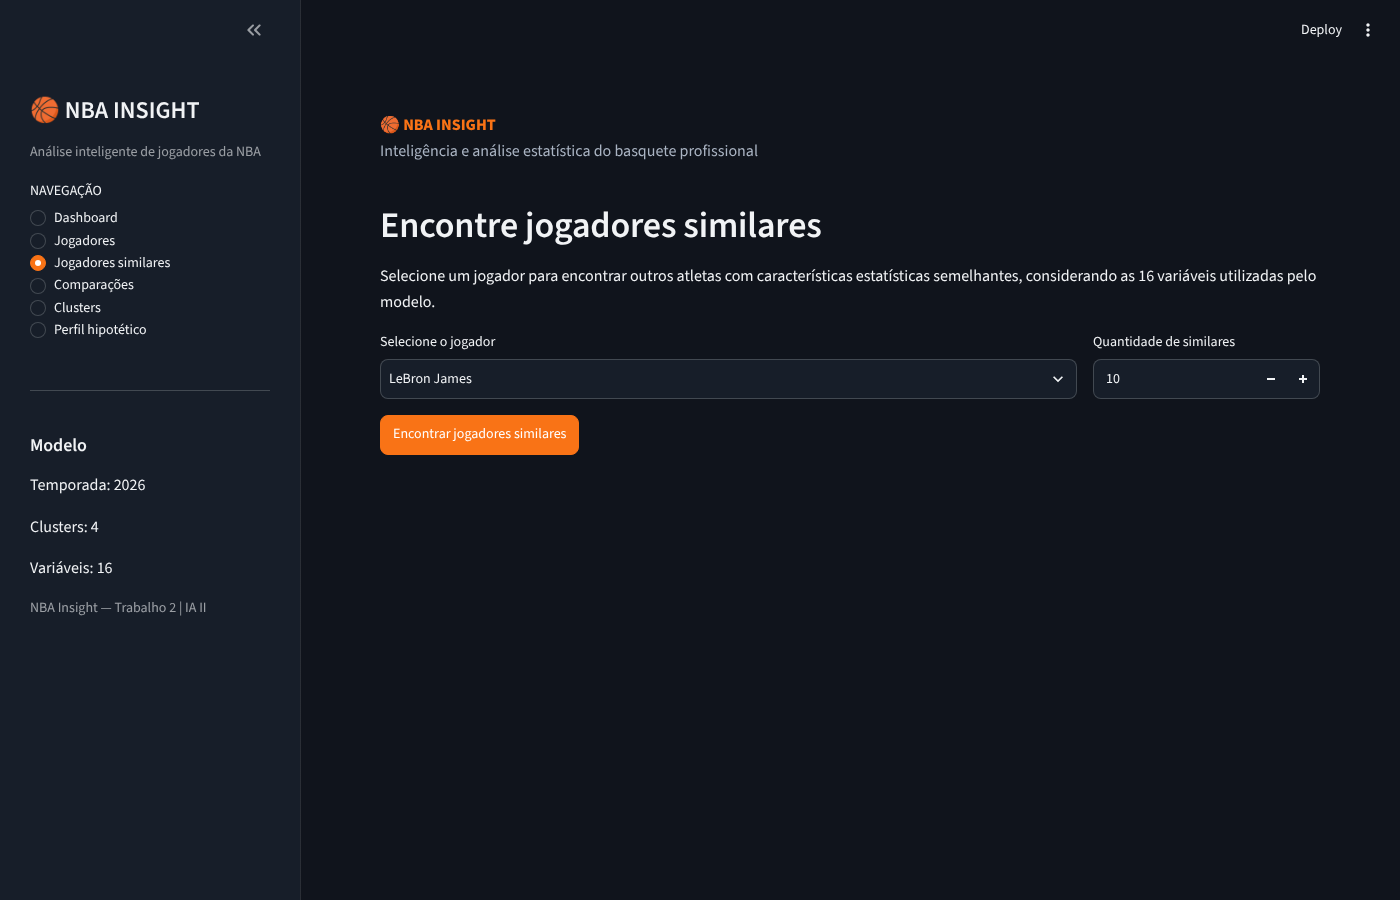
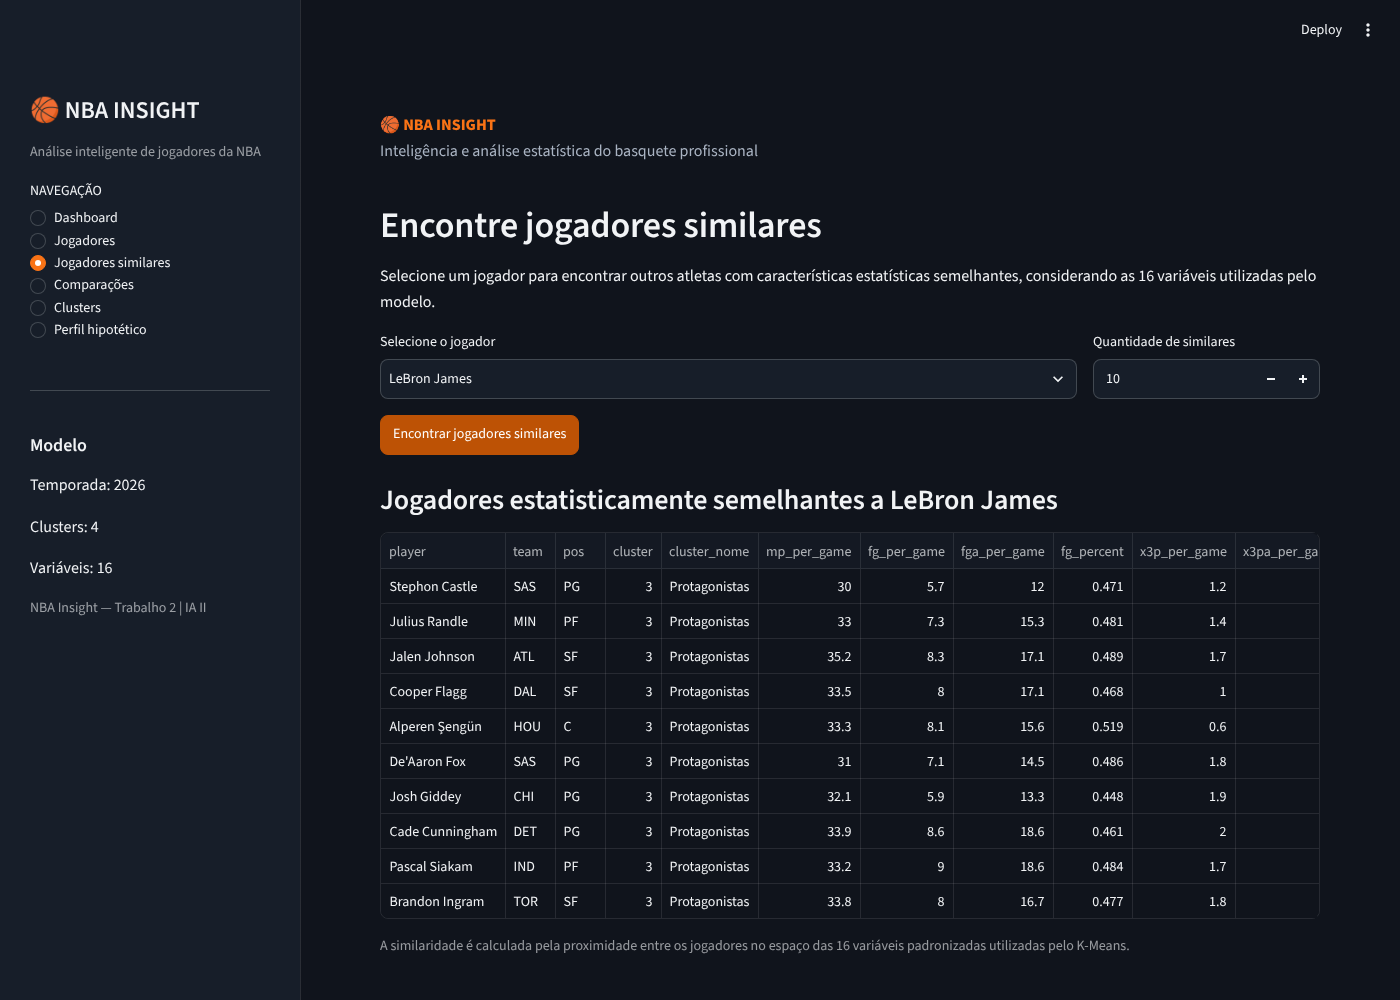
Atualização do ReadME

diff --git a/README.md b/README.md
@@ -30,14 +30,30 @@ O NBA Insight junta três partes:
 
 ### Os 4 clusters
 
-A interface mostra o cluster pelo número (0 a 3). A interpretação de cada um, feita a partir do perfil médio dos grupos, é esta:
+Cada cluster recebe um nome automaticamente, a partir do perfil médio do grupo (o K-Means só devolve números de 0 a 3). A regra, em `analytics.get_cluster_names()`: o cluster com menos minutos é **Reservas**, o com mais minutos é **Protagonistas**, e entre os dois do meio o que tem mais rebotes e tocos é **Garrafão** (o outro é **Perímetro**).
 
-| Cluster | Jogadores | Interpretação | Perfil médio |
+| Cluster | Nome | Jogadores | Perfil médio |
 |---|---|---|---|
-| 0 | 222 | Reservas de baixa minutagem | ≈ 10 min e 3,6 pts por jogo |
-| 1 | 206 | Jogadores de rotação perimetrais | ≈ 23 min, 10 pts, mais bolas de três |
-| 2 | 67 | Especialistas de garrafão | ≈ 23 min, 9,7 pts, FG% ≈ 59% e quase 1 toco por jogo |
-| 3 | 87 | Jogadores de alta minutagem | ≈ 32 min, 20,7 pts e 4,9 assistências |
+| 0 | Reservas | 222 | ≈ 10 min e 3,6 pts por jogo |
+| 1 | Perímetro | 206 | ≈ 23 min, 10 pts, mais bolas de três |
+| 2 | Garrafão | 67 | ≈ 23 min, 9,7 pts, FG% ≈ 59% e quase 1 toco por jogo |
+| 3 | Protagonistas | 87 | ≈ 32 min, 20,7 pts e 4,9 assistências |
+
+## Demonstração
+
+Capturas de tela do app e saídas dos testes estão em [`docs/exemplos/`](docs/exemplos/).
+
+| Dashboard | Jogadores similares |
+|---|---|
+| ![Dashboard](docs/exemplos/01_dashboard.png) | ![Jogadores similares](docs/exemplos/03_jogadores_similares.png) |
+
+| Busca com nomes iguais | Clusters |
+|---|---|
+| ![Busca ambígua](docs/exemplos/02_busca_ambigua.png) | ![Clusters](docs/exemplos/04_clusters.png) |
+
+![Perfil hipotético](docs/exemplos/05_perfil_hipotetico.png)
+
+Também há o log de uma sessão real de um cliente MCP chamando as 7 ferramentas ([`mcp_teste_cliente.txt`](docs/exemplos/mcp_teste_cliente.txt)) e o resultado dos testes ([`pytest.txt`](docs/exemplos/pytest.txt)).
 
 ## 3. Como a IA é utilizada
 
@@ -70,11 +86,11 @@ A interface e o servidor MCP usam a mesma camada analítica (`analytics.py`), en
 
 **Dataset.** O arquivo é o `Player Per Game.csv` do conjunto [NBA, ABA, BAA Stats](https://www.kaggle.com/datasets/sumitrodatta/nba-aba-baa-stats/data), do Kaggle (dados do Basketball Reference). Ele já está em `data/`.
 
-**Recorte.** Liga NBA, temporada 2026, uma linha por jogador. Jogadores que passaram por mais de um time usam a linha agregada. No fim sobram 582 jogadores.
+**Recorte.** Liga NBA, temporada 2026, uma linha por jogador. Jogadores que passaram por mais de um time usam a linha agregada (`2TM`, `3TM` ou `4TM`). No fim sobram 582 jogadores.
 
 **Atributos (16, todos por jogo):** minutos, cestas de quadra (convertidas, tentadas e %), bolas de três (convertidas, tentadas e %), lances livres (convertidos, tentados e %), rebotes, assistências, roubos, tocos, erros e pontos.
 
-**Pré-processamento.** Valores ausentes (por exemplo, o % de três de quem nunca tentou) são preenchidos pela mediana. Depois os dados passam pelo `StandardScaler`.
+**Pré-processamento.** Valores ausentes (por exemplo, o % de três de quem nunca tentou) são preenchidos pela mediana. No perfil hipotético, um aproveitamento sem tentativas também é tratado como ausente, e não como 0%. Depois os dados passam pelo `StandardScaler`.
 
 | Parâmetro do modelo | Valor |
 |---|---|
@@ -90,7 +106,7 @@ O modelo treinado, junto com o imputer e o scaler, fica salvo em `artifacts/kmea
 
 ### 6.1 Requisitos
 
-- Python 3.10 ou superior (desenvolvido com [PREENCHER versão])
+- Python 3.10 ou superior (testado com Python 3.13)
 - Git (opcional, só se for clonar)
 - Windows, Linux ou macOS
 
@@ -127,6 +143,8 @@ python -m pip install --upgrade pip
 pip install -r requirements.txt
 ```
 
+Para reproduzir exatamente as versões testadas, use `pip install -r requirements-lock.txt` no lugar de `requirements.txt`.
+
 ### 6.4 Dataset
 
 O arquivo `data/Player Per Game.csv` já vem no repositório. Se precisar baixar de novo, ele está no [Kaggle](https://www.kaggle.com/datasets/sumitrodatta/nba-aba-baa-stats/data); coloque-o na pasta `data/` com esse mesmo nome.
@@ -145,7 +163,7 @@ python scripts/train_model.py
 streamlit run src/nba_insight/app.py
 ```
 
-O terminal mostra o endereço local (normalmente http://localhost:8501).
+O terminal mostra o endereço local (normalmente http://localhost:8501). O tema escuro é fixado em `.streamlit/config.toml`.
 
 ### 6.7 Rodar o servidor MCP
 
@@ -191,17 +209,21 @@ Perguntas que dá para fazer ao assistente:
 pytest -v
 ```
 
+São 48 testes: os de unidade (com dados simulados) e os de integração em `tests/test_integracao.py`, que usam o dataset e o modelo reais.
+
 ## 7. Ferramentas MCP
 
 | Ferramenta | O que faz |
 |---|---|
-| `buscar_jogador` | Pesquisa um jogador pelo nome |
+| `buscar_jogador` | Pesquisa um jogador pelo nome (ignora acentos e maiúsculas) |
 | `comparar_jogadores` | Compara estatísticas de jogadores |
 | `buscar_jogadores_similares` | Encontra jogadores estatisticamente próximos |
 | `consultar_clusters` | Mostra os clusters e o resumo de cada um |
 | `buscar_jogadores` | Filtra jogadores por critérios estatísticos (mínimo e máximo) |
 | `analisar_perfil_hipotetico` | Classifica um jogador fictício e lista os reais mais parecidos |
-| `consultar_modelo` | Retorna informações do modelo (temporada, clusters, atributos) |
+| `consultar_modelo` | Retorna informações do modelo (temporada, clusters, atributos, nomes dos clusters) |
+
+Todas as ferramentas têm descrição, para que o assistente saiba quando usar cada uma, e as respostas incluem o nome do cluster (`cluster_nome`). Se um nome for ambíguo (por exemplo, "James"), o erro lista os candidatos para o assistente pedir o nome completo.
 
 ## 8. Limitações
 
@@ -214,6 +236,7 @@ pytest -v
 ## 9. Próximos passos
 
 - **Projeção de desempenho:** um modelo preditivo, validado em temporadas futuras, com cenários do tipo "e se jogar mais minutos?".
+- **Evolução ao longo do tempo:** o `Player Per Game.csv` já traz várias temporadas (1947 a 2026). Dá para aplicar o modelo às temporadas anteriores de cada jogador, mostrar a trajetória, as transições entre clusters e apontar quem está em alta ou em queda.
 - **Várias temporadas:** seletor de temporada e comparação entre épocas.
 - **Mais estatísticas:** métricas avançadas (PER, uso, BPM) e valores por 36 minutos, para reduzir o viés da minutagem.
 - **Uso real:** publicar a interface (por exemplo, no Streamlit Community Cloud) e o servidor MCP, para que pessoas usem sem instalar nada.
@@ -228,6 +251,7 @@ pytest -v
 │   └── Player Per Game.csv
 ├── docs/
 │   ├── architecture.md
+│   └── exemplos/               # prints do app e logs
 ├── scripts/
 │   └── train_model.py
 ├── src/
@@ -241,10 +265,14 @@ pytest -v
 │       └── model_loader.py
 ├── tests/
 │   ├── test_analytics.py
+│   ├── test_integracao.py
 │   └── test_mcp_tools.py
+├── .streamlit/
+│   └── config.toml
 ├── .gitignore
 ├── README.md
-└── requirements.txt
+├── requirements.txt
+└── requirements-lock.txt
 ```
 
 ## 11. Créditos
